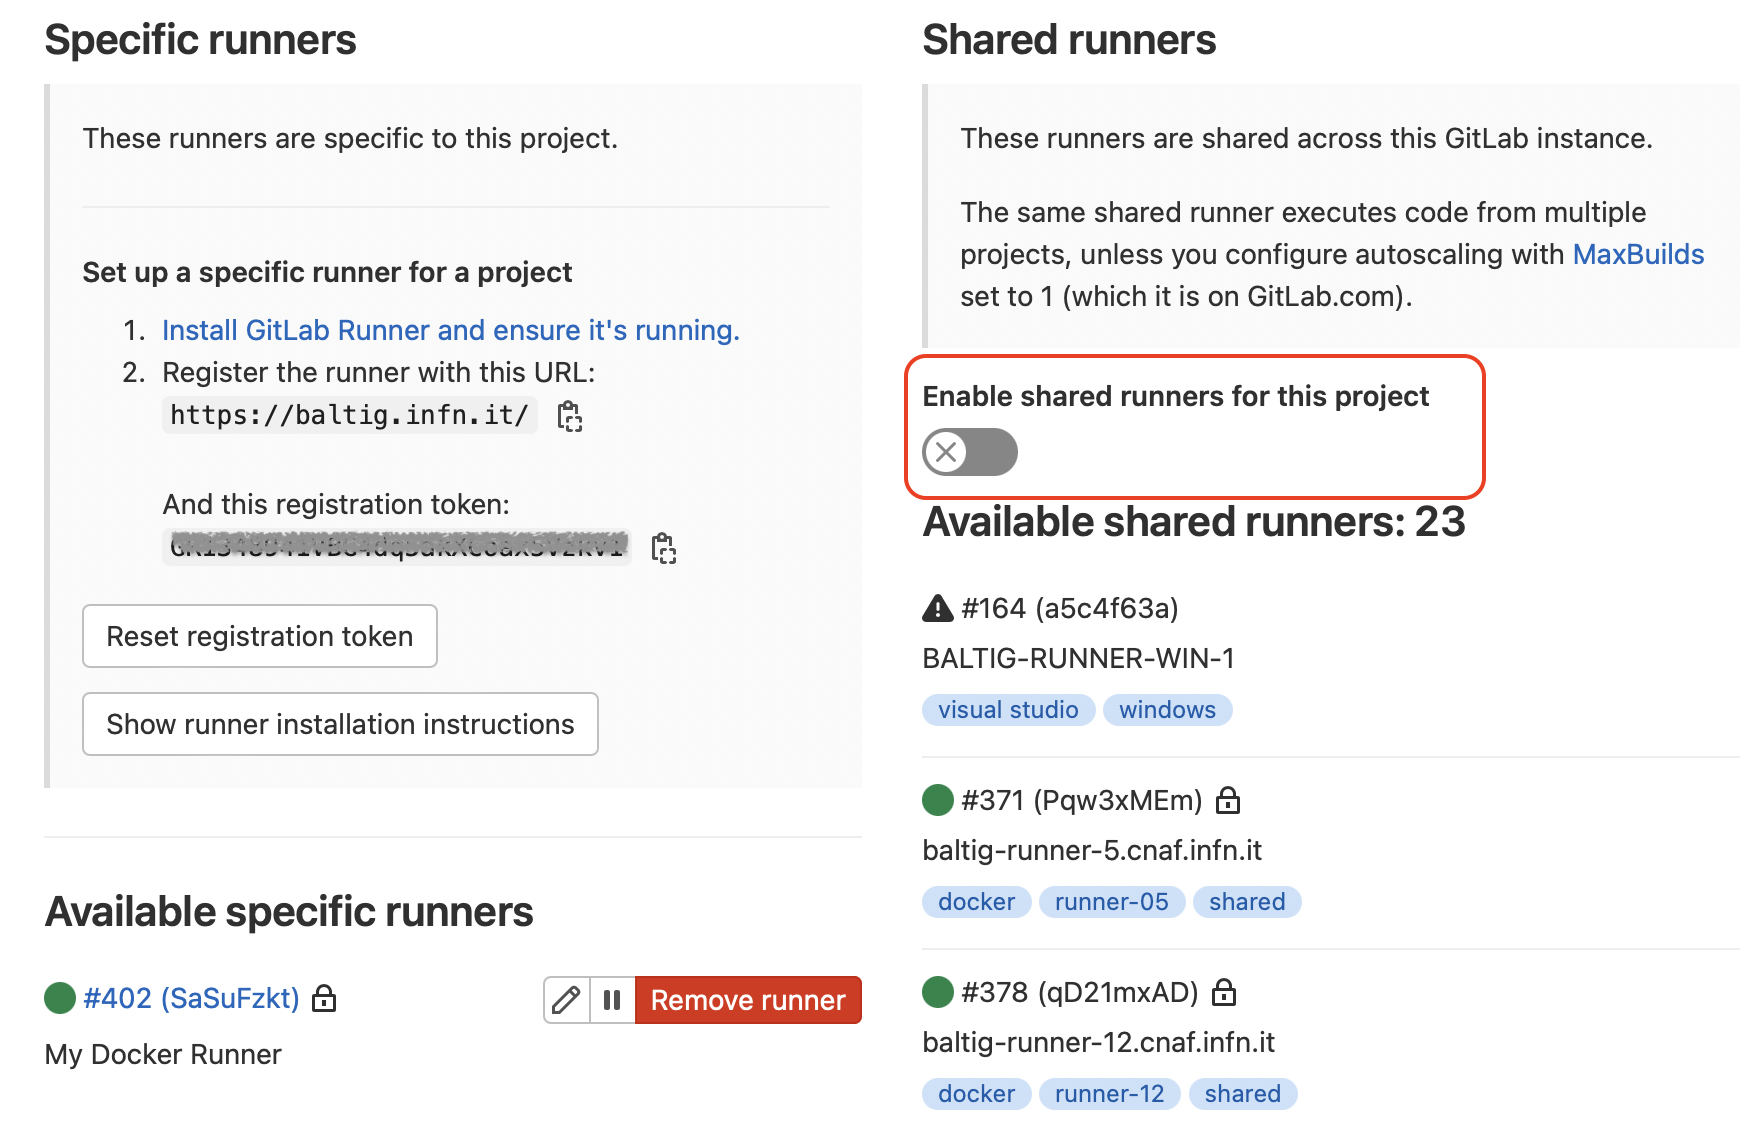
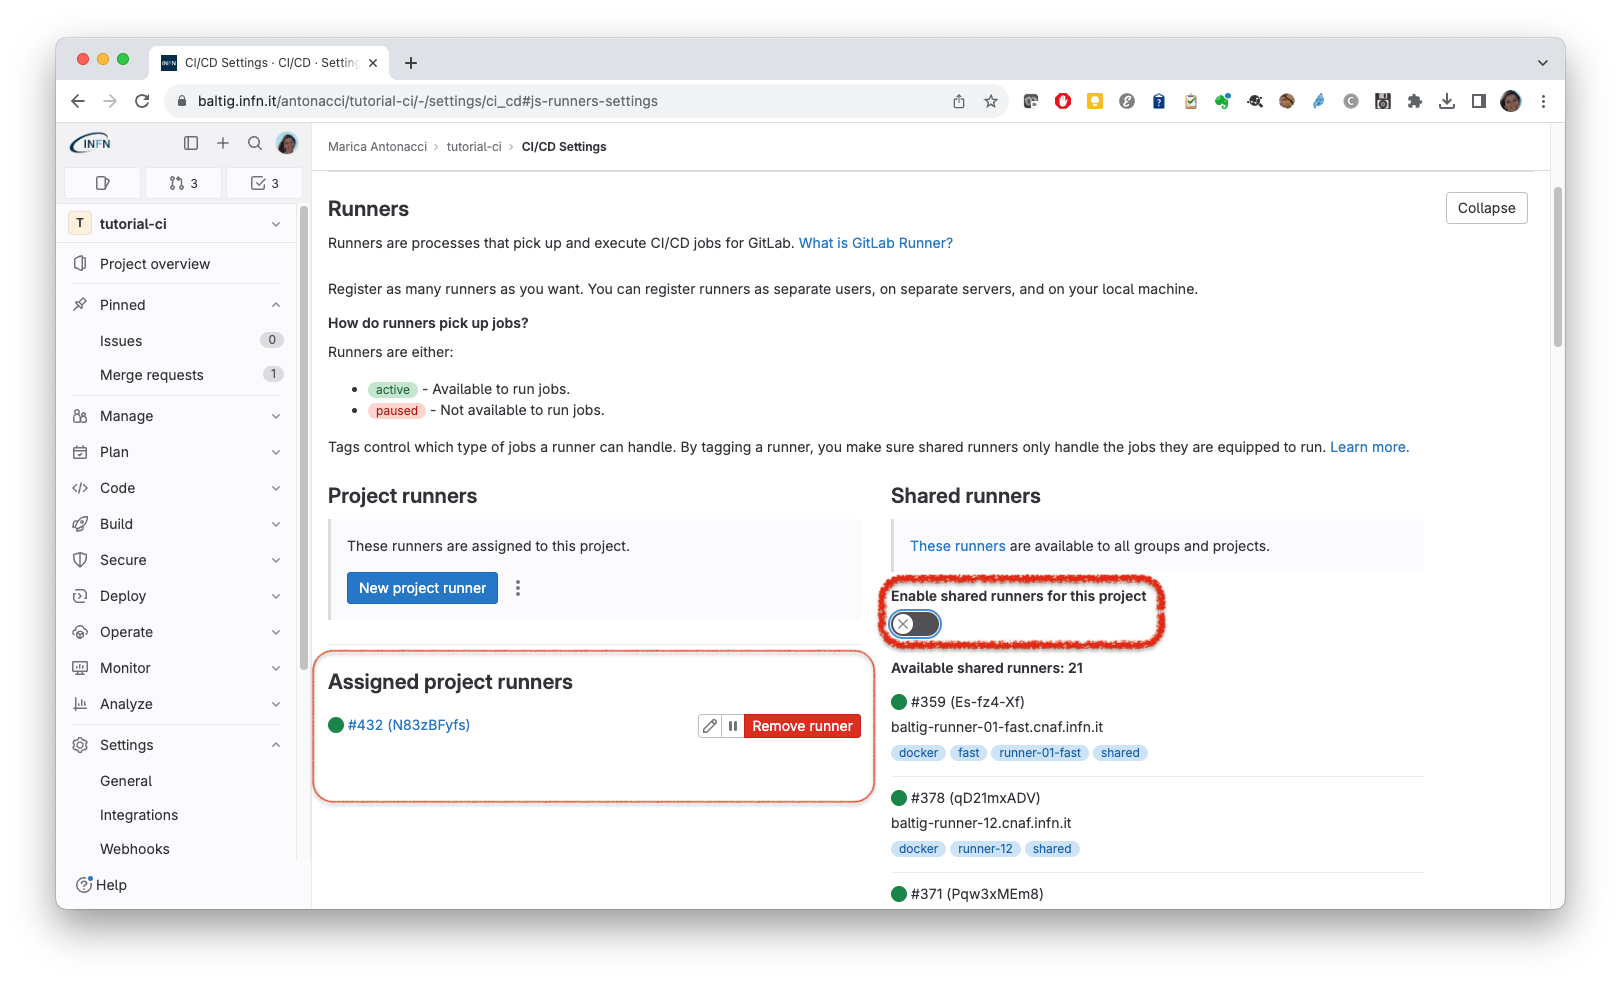
Update gitlab runner section

Changed region(s): [[0.0, 0.0, 0.987, 0.9766]]

diff --git a/docs/image/automation/runner.md b/docs/image/automation/runner.md
@@ -22,24 +22,33 @@ In this section we will add a dedicated GitLab runner to the CI/CD infrastructur
        1. Obtain a token:
           Visit your project web page (at `https://baltig.infn.it/USERNAME/tutorial-ci`) and go to **Settings > CI/CD** and expand the **Runners** section:
           ![](images/reg_runner_1.png)
-          Copy the token under the section *Specific runners*:
+          Click "New project runner" under the section *Project runners*:
           ![](images/reg_runner_2.png)
+          Select the option "Run untagged jobs" as shown in the next figure:
+          ![](images/reg_runner_2a.png)
+          Copy the token displayed in step 1:
+          ![](images/reg_runner_2b.png)
        2. Launch the following command replacing the `***********` with the token you have just copied:
           ```
           docker exec -it gitlab-runner gitlab-runner register -n --url https://baltig.infn.it \
-          --registration-token *********** --description "My Docker Runner" \
+          --token *********** --description "My Docker Runner" \
           --executor docker --docker-image "docker:latest" \
           --docker-volumes /var/run/docker.sock:/var/run/docker.sock
           ```
           If the registration is successful you will get a similar message:
           ```
-          Registering runner... succeeded                     runner=**********
+          Runtime platform                                    arch=amd64 os=linux pid=16 revision=8ec04662 version=16.3.0
+          Running in system-mode.
+          
+          Verifying runner... is valid                        runner=5sYMm3yvH
           Runner registered successfully. Feel free to start it, but if it's running already the config should be automatically reloaded!
-       
-          Configuration (with the authentication token) was saved in "/etc/gitlab-runner/config.toml" 
+          
+          Configuration (with the authentication token) was saved in "/etc/gitlab-runner/config.toml"
           ```
+          You will see the message about the successful registration also in the web page:
+          ![](images/reg_runner_3a.png)
           and your runner will appear under the specific runners of the project:
-          ![](images/reg_runner_3.png)
+          ![](images/reg_runner_3b.png)
 
 Now you can disable the shared runners and use your newly created one:
 ![](images/reg_runner_4.png)
@@ -52,15 +61,43 @@ You can also look at the runner logs using the command `docker logs gitlab-runne
 
 ```
 docker logs -f gitlab-runner
-Runtime platform                                    arch=amd64 os=linux pid=6 revision=bbcb5aba version=15.3.0
-Starting multi-runner from /etc/gitlab-runner/config.toml...  builds=0
+Runtime platform                                    arch=amd64 os=linux pid=7 revision=8ec04662 version=16.3.0
+Starting multi-runner from /etc/gitlab-runner/config.toml...  builds=0 max_builds=0
 Running in system-mode.
 
-Configuration loaded                                builds=0
-listen_address not defined, metrics & debug endpoints disabled  builds=0
-[session_server].listen_address not defined, session endpoints disabled  builds=0
-Configuration loaded                                builds=0
-Checking for jobs... received                       job=305485 repo_url=https://baltig.infn.it/antonacci/tutorial-ci.git runner=SaSuFzkt
-Job succeeded                                       duration_s=106.117881576 job=305485 project=4875 runner=SaSuFzkt
+Created missing unique system ID                    system_id=r_P8aAkaba4WdQ
+Configuration loaded                                builds=0 max_builds=1
+listen_address not defined, metrics & debug endpoints disabled  builds=0 max_builds=1
+[session_server].listen_address not defined, session endpoints disabled  builds=0 max_builds=1
+Initializing executor providers                     builds=0 max_builds=1
+Checking for jobs... received                       job=399659 repo_url=https://baltig.infn.it/antonacci/tutorial-ci.git runner=N83zBFyfs
+Added job to processing list                        builds=1 job=399659 max_builds=1 project=4884 repo_url=https://baltig.infn.it/antonacci/tutorial-ci.git
+Appending trace to coordinator...ok                 code=202 job=399659 job-log=0-281 job-status=running runner=N83zBFyfs sent-log=0-280 status=202 Accepted update-interval=3s
+Appending trace to coordinator...ok                 code=202 job=399659 job-log=0-369 job-status=running runner=N83zBFyfs sent-log=281-368 status=202 Accepted update-interval=3s
+Appending trace to coordinator...ok                 code=202 job=399659 job-log=0-580 job-status=running runner=N83zBFyfs sent-log=369-579 status=202 Accepted update-interval=3s
+Appending trace to coordinator...ok                 code=202 job=399659 job-log=0-655 job-status=running runner=N83zBFyfs sent-log=580-654 status=202 Accepted update-interval=3s
+Appending trace to coordinator...ok                 code=202 job=399659 job-log=0-2246 job-status=running runner=N83zBFyfs sent-log=655-2245 status=202 Accepted update-interval=3s
+Appending trace to coordinator...ok                 code=202 job=399659 job-log=0-2590 job-status=running runner=N83zBFyfs sent-log=2246-2589 status=202 Accepted update-interval=3s
+Appending trace to coordinator...ok                 code=202 job=399659 job-log=0-2664 job-status=running runner=N83zBFyfs sent-log=2590-2663 status=202 Accepted update-interval=3s
+Appending trace to coordinator...ok                 code=202 job=399659 job-log=0-2803 job-status=running runner=N83zBFyfs sent-log=2664-2802 status=202 Accepted update-interval=3s
+Appending trace to coordinator...ok                 code=202 job=399659 job-log=0-3081 job-status=running runner=N83zBFyfs sent-log=2803-3080 status=202 Accepted update-interval=3s
+Appending trace to coordinator...ok                 code=202 job=399659 job-log=0-3443 job-status=running runner=N83zBFyfs sent-log=3081-3442 status=202 Accepted update-interval=3s
+Appending trace to coordinator...ok                 code=202 job=399659 job-log=0-4295 job-status=running runner=N83zBFyfs sent-log=3443-4294 status=202 Accepted update-interval=3s
+Appending trace to coordinator...ok                 code=202 job=399659 job-log=0-4333 job-status=running runner=N83zBFyfs sent-log=4295-4332 status=202 Accepted update-interval=3s
+Appending trace to coordinator...ok                 code=202 job=399659 job-log=0-4413 job-status=running runner=N83zBFyfs sent-log=4333-4412 status=202 Accepted update-interval=3s
+Appending trace to coordinator...ok                 code=202 job=399659 job-log=0-4500 job-status=running runner=N83zBFyfs sent-log=4413-4499 status=202 Accepted update-interval=3s
+Appending trace to coordinator...ok                 code=202 job=399659 job-log=0-4724 job-status=running runner=N83zBFyfs sent-log=4500-4723 status=202 Accepted update-interval=3s
+Appending trace to coordinator...ok                 code=202 job=399659 job-log=0-5595 job-status=running runner=N83zBFyfs sent-log=4724-5594 status=202 Accepted update-interval=3s
+Appending trace to coordinator...ok                 code=202 job=399659 job-log=0-6264 job-status=running runner=N83zBFyfs sent-log=5595-6263 status=202 Accepted update-interval=3s
+Appending trace to coordinator...ok                 code=202 job=399659 job-log=0-6334 job-status=running runner=N83zBFyfs sent-log=6264-6333 status=202 Accepted update-interval=3s
+Appending trace to coordinator...ok                 code=202 job=399659 job-log=0-6439 job-status=running runner=N83zBFyfs sent-log=6334-6438 status=202 Accepted update-interval=3s
+Appending trace to coordinator...ok                 code=202 job=399659 job-log=0-6579 job-status=running runner=N83zBFyfs sent-log=6439-6578 status=202 Accepted update-interval=3s
+Appending trace to coordinator...ok                 code=202 job=399659 job-log=0-6818 job-status=running runner=N83zBFyfs sent-log=6579-6817 status=202 Accepted update-interval=3s
+Appending trace to coordinator...ok                 code=202 job=399659 job-log=0-6985 job-status=running runner=N83zBFyfs sent-log=6818-6984 status=202 Accepted update-interval=3s
+Job succeeded                                       duration_s=144.960209393 job=399659 project=4884 runner=N83zBFyfs
+Appending trace to coordinator...ok                 code=202 job=399659 job-log=0-7061 job-status=running runner=N83zBFyfs sent-log=6985-7060 status=202 Accepted update-interval=3s
+Updating job...                                     bytesize=7061 checksum=crc32:77dc11c0 job=399659 runner=N83zBFyfs
+Submitting job to coordinator...ok                  bytesize=7061 checksum=crc32:77dc11c0 code=200 job=399659 job-status= runner=N83zBFyfs update-interval=0s
+Removed job from processing list                    builds=0 job=399659 max_builds=1 project=4884 repo_url=https://baltig.infn.it/antonacci/tutorial-ci.git
 ```  
            
